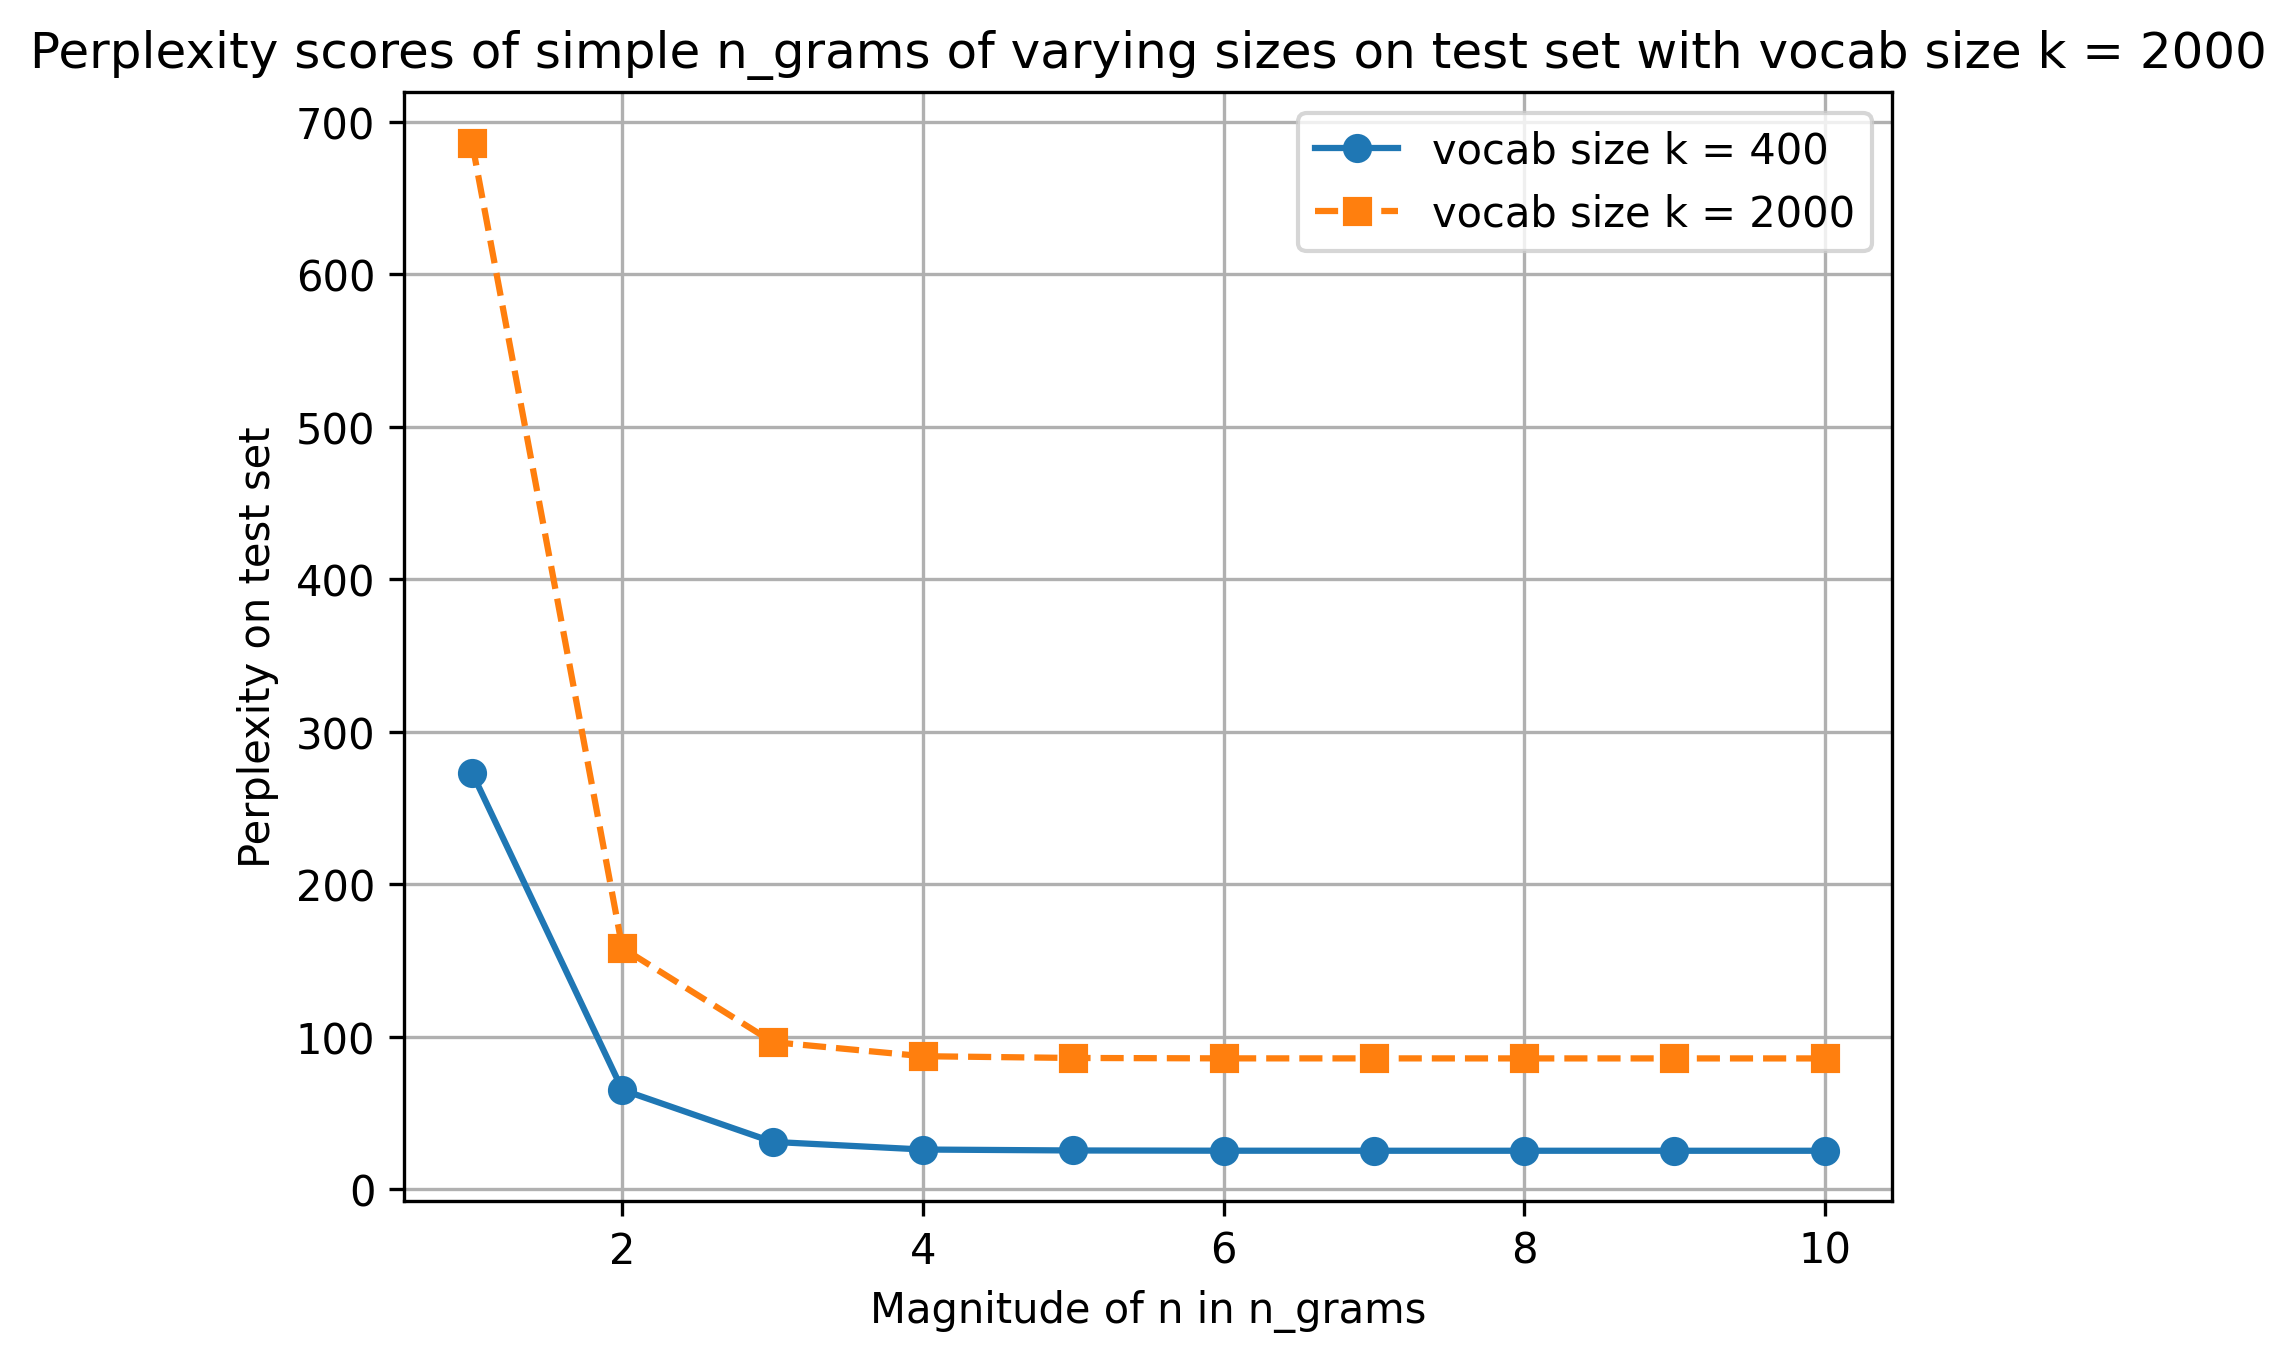
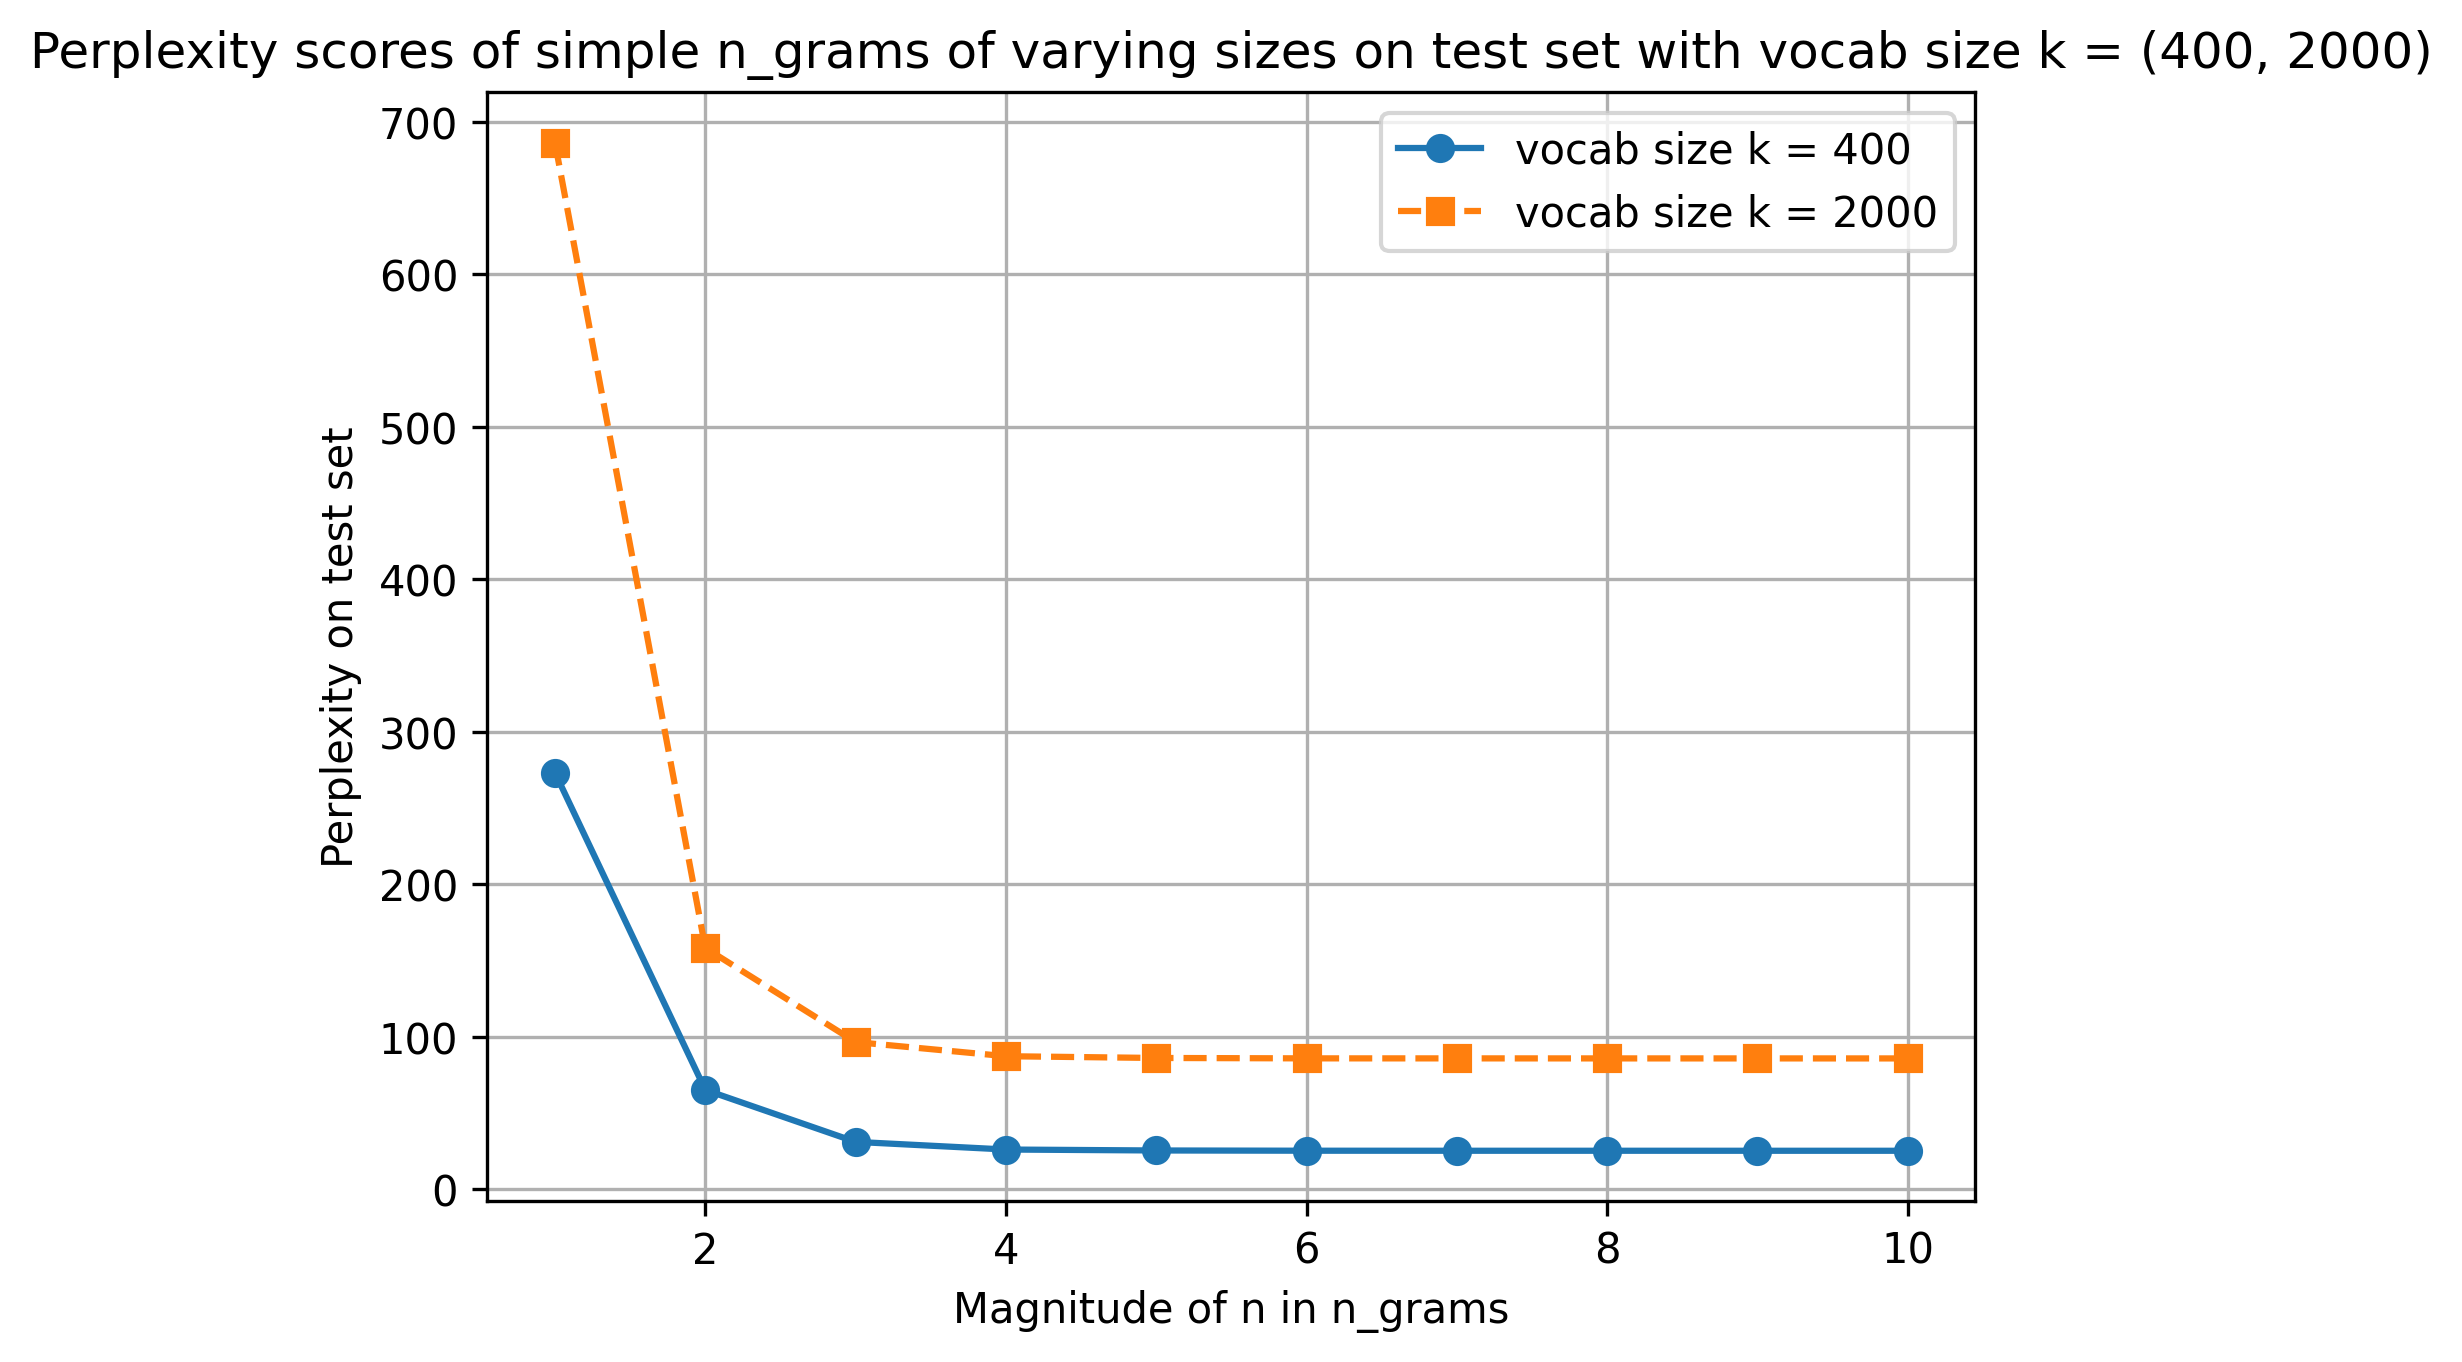
refactor: plotting parametrized wrt K

diff --git a/simple_n_grams.py b/simple_n_grams.py
@@ -144,7 +144,7 @@ def get_perplexity_score_of_via(corpus_segment: str,
  
     return perplexity
 
-def plot_perplexity (perplexity_scores1: list, perplexity_scores2: list, k:int):
+def plot_perplexity (perplexity_scores1: list, perplexity_scores2: list, k1:int, k2: int):
     # Indices
     #indices1 = range(len(perplexity_scores_K_2000))  
     indices1 = np.arange(len(perplexity_scores1)) + 1
@@ -153,12 +153,12 @@ def plot_perplexity (perplexity_scores1: list, perplexity_scores2: list, k:int):
     #indices2 = range(len(val_loss_history)) 
 
     # Plot both
-    plt.plot(indices1, perplexity_scores1, marker='o', linestyle='-', label='vocab size k = 400')
-    plt.plot(indices2, perplexity_scores2, marker='s', linestyle='--', label='vocab size k = 2000')
+    plt.plot(indices1, perplexity_scores1, marker='o', linestyle='-', label=f'vocab size k = {k1}')
+    plt.plot(indices2, perplexity_scores2, marker='s', linestyle='--', label=f'vocab size k = {k2}')
 
     plt.xlabel('Magnitude of n in n_grams')
     plt.ylabel('Perplexity on test set')
-    plt.title(f'Perplexity scores of simple n_grams of varying sizes on test set with vocab size k = {k}')
+    plt.title(f'Perplexity scores of simple n_grams of varying sizes on test set with vocab size k = {k1, k2}')
     plt.legend()
     plt.grid(True)
 
@@ -217,7 +217,7 @@ for i in range(1, MAX_N_GRAM_LENGTH + 1):
     print (f"For vocab size k = {K} and n = {i} perplexity on {evaluation_set} set is equal to {perplexity}")
 
 
-plot_perplexity (perplexity_scores_K_400, perplexity_scores_K_2000, K)
+plot_perplexity (perplexity_scores_K_400, perplexity_scores_K_2000, 400, 2000)
 
 
 go_into_generation_mode (K)
